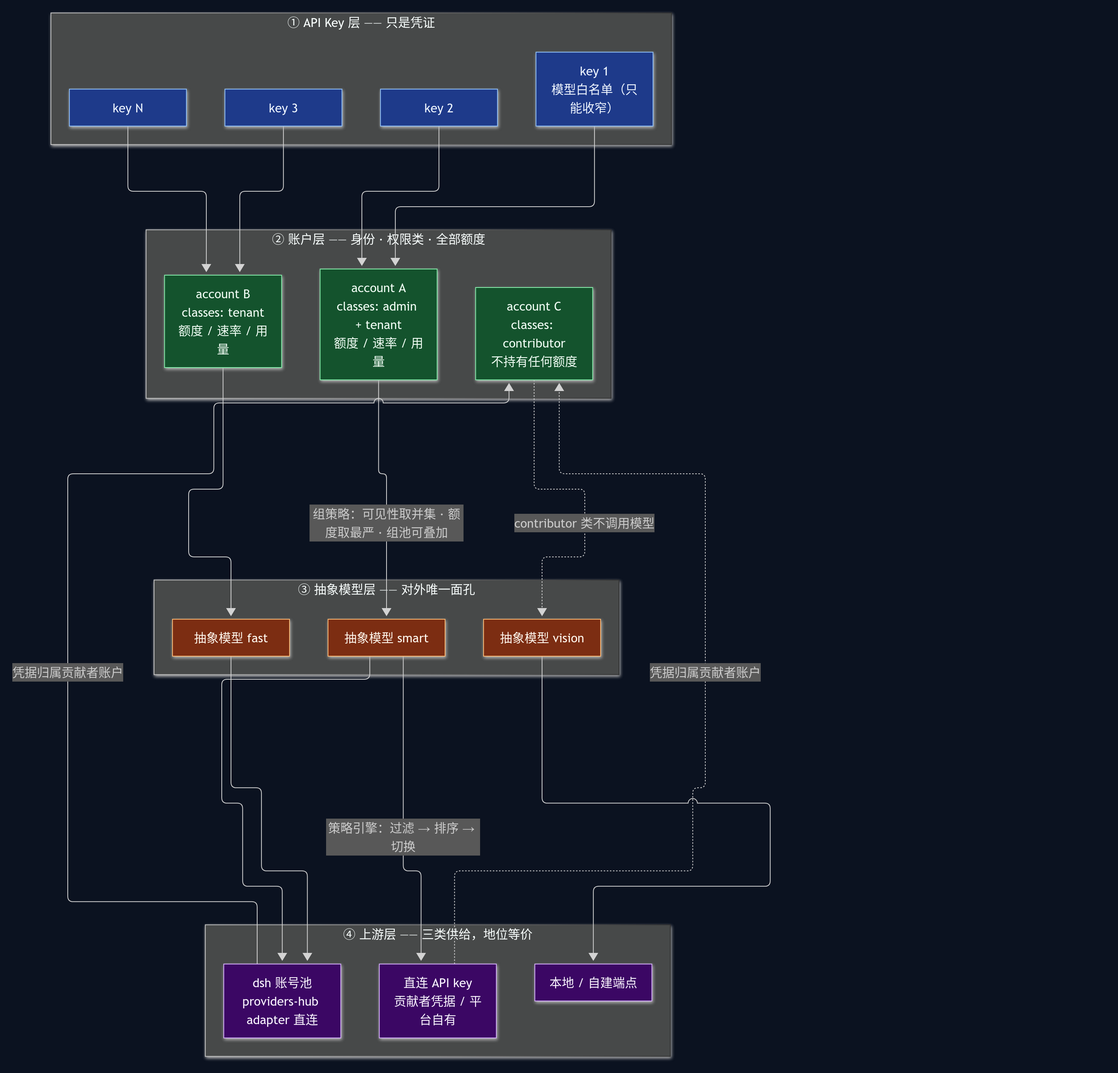
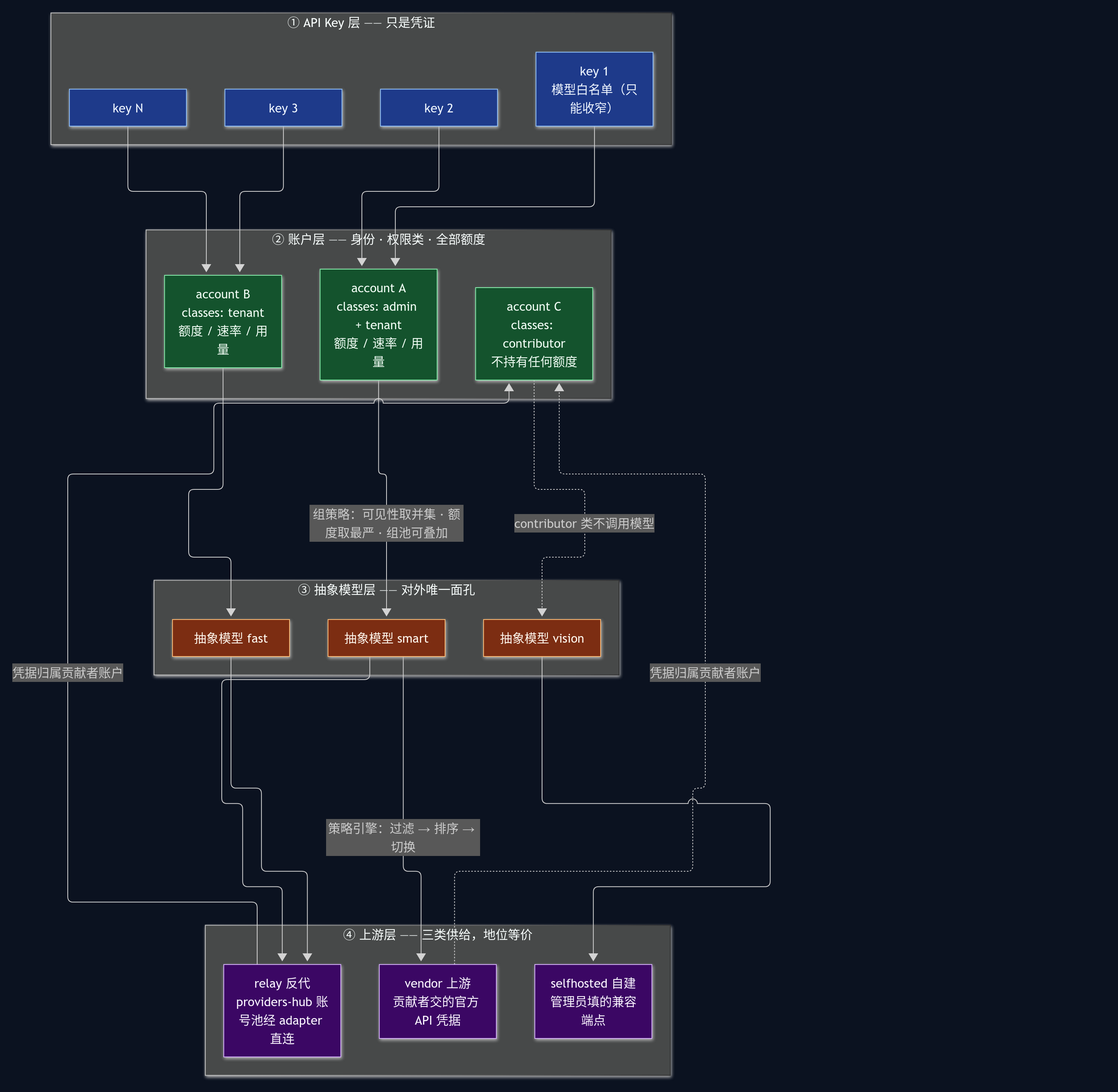
docs: 三类上游改名 relay/vendor/selfhosted（反代/上游/自建）+ 架构图重渲染
- dsh_provider → relay（反代）、contributed → vendor（上游）、compatible → selfhosted（自建）
- 依据：upstreams.kind='upstream' 自指像 bug；upstream 已是 L3 层名
- 同步 README 术语表 + 文档地图行数 + 三张架构图 PNG

diff --git a/docs/DECISIONS-REVIEW.md b/docs/DECISIONS-REVIEW.md
@@ -36,12 +36,12 @@
 | 1.3 | **两进程模型**：Go 主进程 + Node sidecar；不 import、不写 cordis 插件 | `01-overview.md:171-196` |
 | 1.4 | **IPC 用 stdio + NDJSON**（一行一帧），借用 JSON-RPC 2.0 字段名但不实现 batch/notification | `04-sidecar.md:37-53`（已全库统一，见第 8.1 条） |
 | 1.5 | sidecar **无状态、一问一答、不主动推送**，`id` 由主进程分配 | `04-sidecar.md:52-57` |
-| 1.6 | sidecar 三条红线（只读凭据 / 不碰 `state.json` / 推理上游永走回环），并做成真实错误码 `E_CREDENTIAL_READONLY`、`E_STATE_FORBIDDEN` 当守卫 | `04-sidecar.md:199-231` |
+| 1.6 | sidecar 三条红线（只读凭据 / 不碰 `state.json` / 推理不经本机 HTTP 网关），并做成真实错误码 `E_CREDENTIAL_READONLY`、`E_STATE_FORBIDDEN` 当守卫 | `04-sidecar.md:199-231` |
 | 1.7 | sidecar **不感知业务概念**（IPC 参数里不出现 `abstract_model`/`api_key`/`account_id`） | `04-sidecar.md:192-195` |
 | 1.8 | 控制面与数据面**同进程** | `01-overview.md:311` |
 | 1.9 | 中间件顺序**固定 11 步**：恢复/请求 ID → 安全头 → 可信代理由 → body 上限 → 鉴权 → 限速 → 配额 → 抽象模型解析 → 协议解析 → L2 → 响应编码 | `01-overview.md:80-104` |
 | 1.10 | 入站请求体上限 **32 MiB**（可配），超限 **413 且不读 body** | `01-overview.md:88`、`03-upstream.md:363-373` `[无理由]`（为何是 32） |
-| 1.11 | 上游 `dshgateway` body 上限 **300 MiB** → 413 `request_too_large` | `03-upstream.md:366` |
+| 1.11 | 上游请求体上限 **300 MiB** → 413 `request_too_large`（反代类尤其要注意：provider adapter 自己也限额） | `03-upstream.md:366` |
 | 1.12 | 限速三维令牌桶：**全局 / 按 Key / 按 IP** | `01-overview.md:90` `[无理由]` |
 | 1.13 | MVP 只做 `/v1/chat/completions` 与 `/v1/messages`；`/v1/responses` 与 Gemini 入站列 P1 | `01-overview.md:105-118` `[无理由]` |
 | 1.14 | IR 只有**三种 role**（system/user/assistant），不设 `RoleTool`；系统提示统一提升为一条 system 消息 | `02-ir.md:68-85` |
@@ -63,11 +63,11 @@
 | 1.30 | 重试退避表：连接重置 **50→150ms** ≤2 次、连接失败 **200→500ms** ≤2、TLS **200ms** ≤1、超时 ≤1、5xx **100→300ms** ≤2；**429/额度/鉴权/bad_request/protocol 一律 0 次重试** | `03-upstream.md:242-256` |
 | 1.31 | 重试总预算 **≤2 次/候选、≤4 次/请求** | `03-upstream.md:260` |
 | 1.32 | 健康状态机 4 态；`degraded` **降权不摘除**；冷却退避 **30s→1m→5m→15m**（上限 15m） | `03-upstream.md:286-322` |
-| 1.33 | 熔断粒度挂在 `upstreams.id`；`dshgateway` 用 `GET /v1/models` 探活、健康时 **30s** 一次 | `03-upstream.md:304-318` |
-| 1.34 | `/readyz` = dshgateway 成功 **且** 至少 1 个 contributed healthy | `03-upstream.md:324-332` |
+| 1.33 | 熔断粒度挂在 `upstreams.id`；反代类用 sidecar 的 `models.list` 探活、健康时 **30s** 一次 | `03-upstream.md:304-318` |
+| 1.34 | `/readyz` = sidecar 可用 **且** 至少 1 条反代/上游健康 | `03-upstream.md:324-332` |
 | 1.35 | 超时矩阵 8 项：入站读 body **30s** / TCP **5s**（公网贡献凭据放宽 10s）/ TLS **10s** / 首字节 **60s** / **流式事件间隔 120s** / 单请求总时长 **600s** / 空闲淘汰 **90s** / drain **30s** | `03-upstream.md:336-355` |
 | 1.36 | 契约测试 **K1–K7**（含复现 `http=000` 并验证重试）；K1 **不断言模型条目数** | `03-upstream.md:400-415` |
-| 1.37 | 启动顺序 7 步，**初始化向导先于开公网**；`dshgateway` 自举失败**不阻塞启动**、每 30s 重试 | `01-overview.md:197-213`、`04-sidecar.md:236-257` |
+| 1.37 | 启动顺序 7 步，**初始化向导先于开公网**；反代类自举失败**不阻塞启动**、指数退避到 30s 重试 | `01-overview.md:197-213`、`04-sidecar.md:236-257` |
 | 1.38 | sidecar 启动 `health` 超时 **10s**，失败挂横幅继续 | `04-sidecar.md:243-250` |
 | 1.39 | sidecar 重启退避 **1s→2s→5s→15s→30s→60s**；连续 **5 次**失败停止重启等人工；协议违规**连续 3 次**主动重启 | `04-sidecar.md:259-274` |
 | 1.40 | sidecar 单次 IPC 超时：`health`/`providers.list` **3s**、`credentials.resolve`/`describe` **5s**、`models.list`/`credits.query` **15s**、`login.*` **10s**、`login.cancel` **3s**；**超时不取消** sidecar 侧操作 | `04-sidecar.md:276-288` |
@@ -185,7 +185,7 @@
 | 3.8 | 三级鉴定流水线：L0 **几秒**（全部贡献无例外）→ L1 **约 1 分钟**（决定是否入池）→ L2 **分钟级**（抽检 + 可疑 + 定时复检） | `05-verification.md:71-85` |
 | 3.9 | 信号按伪造抵抗性三级：**强**（数值随机指纹、能力边界、logprobs、金丝雀）、**中**（知识边界、计费一致性）、**弱**（usage 差值、自报身份、回显 model、响应头、错误格式）；弱信号不能单独定案 | `05-verification.md:49-60` |
 | 3.10 | 请求级两道闸：Q1 个人额度 → **429 `quota_exceeded`**；Q2 组共享池 → **429 `pool_exhausted`**；在候选展开**之前**判一次 | `03-strategy.md:71-77` |
-| 3.11 | 候选声明字段：`channel_scope{mode, channels[]}`、`credential_scope{mode: any/platform_only/contributed_only}`、`require_modalities[]`、`min_context`、`require_efforts[]` | `02-abstract.md:82-97` `[无理由]` |
+| 3.11 | 候选声明字段：`channel_scope{mode, channels[]}`、`credential_scope{mode: any/platform_only/contributor_only}`、`require_modalities[]`、`min_context`、`require_efforts[]` | `02-abstract.md:82-97` `[无理由]` |
 | 3.12 | 候选保存校验 **6 条**（含 require_modalities 必须是子集、至少 1 个候选） | `02-abstract.md:125-130` |
 | 3.13 | `aggregate/*` **默认排除**：刷新时置 `excluded_from_candidates=true`；引用它保存**被拒**；仍可见（22 个） | `01-catalog.md:139-145` |
 | 3.14 | missing 判定：连续 **N 天**未出现（**建议 3–7 天**，未定值） | `01-catalog.md:152,158` |
@@ -279,7 +279,7 @@
 | 4.45 | `qualified_name` **不可写**；`aggregate/*` 默认排除落在数据层 | `02-admin.md:225-259` |
 | 4.46 | 抽象模型名创建后不可改；`capability_mode` 二值；干跑是保存路径的**强制步骤**且要求新鲜结果 | `02-admin.md:265-333` |
 | 4.47 | 弃用保存三条硬校验（环检测 / 深度 ≤5 / 能力逐项 ≥）；`migration_doc` 字段名与四项能力清单 | `02-admin.md:340-372` |
-| 4.48 | 上游/凭据端点：`ban` 与禁用上游**需二次确认但不逐次重验**；**无任何端点返回凭据明文**；`kind=dshgateway` 的 `base_url` 只能是 `127.0.0.1:8326`　**2026-10-20 修正**：原写「ban 每次重验」，与「恰好四项」冲突 | `02-admin.md:378-405` |
+| 4.48 | 上游/凭据端点：`ban` 与禁用上游**需二次确认但不逐次重验**；**无任何端点返回凭据明文**；`kind=relay`（反代）**根本没有 `base_url` 可填**——端点由 adapter 内部决定　**2026-10-20 修正**：原写「ban 每次重验」，与「恰好四项」冲突 | `02-admin.md:378-405` |
 | 4.49 | 审计查询参数固定 **7 个**，**无 DELETE** | `02-admin.md:435` |
 | 4.50 | 需**二次确认**的设置键 **4 个**（不含已撤销的 `admin_ip_allowlist`），设置项**不逐次重验**；额外提供 `POST /api/admin/settings/ip-check`；脱敏模式是**设置**而非会话级参数　**2026-10-20 修正**：原写「需逐次重验的设置键 5 个」——5 个里含已明确不提供的 `admin_ip_allowlist`，且设置项本就不属四项 | `02-admin.md:444-460` |
 

diff --git a/docs/architecture/04-sidecar.md b/docs/architecture/04-sidecar.md
@@ -139,7 +139,7 @@ credits.query({ provider: string, credentialRef: string }) -> {
 | `credentials.set` / `credentials.unset` | **红线①**（第 4 节）。一旦存在，某天就会有人用它"顺手把刷新后的 token 写回去"，而那次写入会与 DSH 自己的续期竞争 |
 | `credentials.refresh` | 续期必然要写回凭据存储，同红线①。**后果**：凭据的续期只能由 DSH 完成，我们只能读最新值。读到 `expiresAt` 已过 → 标 `status=expired` 并从候选中剔除，同时提示贡献者去 DSH 里重新登录 |
 | `state.read` / `state.write` | **红线②**（第 4 节）。`state.json` 是 DSH 的运行状态（账号列表、`disabledModels`、`aggregateOrder` 等），与它共享状态就是承认耦合 |
-| 任何"代我调用上游模型"的方法 | sidecar **不参与推理链路**。红线③要求推理上游永走 `127.0.0.1`，如果让 sidecar 代发模型请求，就等于把推理上游地址变成了"由 TS 代码决定"，那正是我们要避免的 |
+| 任何"打开一个 HTTP 端口让 Go 侧代理推理"的方法 | **不进过本机 HTTP 网关**（ALIGN-SPEC H / 红线③）。sidecar **确实参与推理链路**（它就在链路上：Go → IPC → adapter → 官方端点），但那条链路上没有 HTTP 监听端口——推理走进程内 `import()`，数据经 stdio 管道搬运。若提供一个 `:8326` 那样的收口层，就等于把推理又变成"一个可被别人直接敲的 OpenAI 端点"，且会抹掉 provider 账号归因（网关只认一个 Bearer） |
 
 **登录流拿到凭据之后怎么办**：`login.poll` 返回 `credentialRef` 与取值入口，**由贡献者在控制台
 确认后，凭据存进 FreeRouter 自己的 `upstream_secrets`**（AES-GCM），不回写 DSH。
@@ -240,21 +240,21 @@ credits.query({ provider: string, credentialRef: string }) -> {
 |---|---|---|
 | 1 | 加载配置，校验唯一出口（[03-upstream.md](03-upstream.md) 9.3） | **拒绝启动** |
 | 2 | 打开 SQLite，执行迁移 | 拒绝启动 |
-| 3 | 校验 `sidecar.hub_path`（vendored providers-hub）可读、Node 版本满足 | 挂横幅，继续（不阻塞） |
-| 4 | **拉起 sidecar 进程**，等待 `health` 应答（超时 **10s**） | 挂横幅，继续；contributed 全部视为不可用 |
+| 3 | 校验 `sidecar.hub_path`（随包副本 `hub_path`）可读、Node 版本满足 | 挂横幅，继续（不阻塞） |
+| 4 | **拉起 sidecar 进程**，等待 `health` 应答（超时 **10s**） | 挂横幅，继续；vendor 全部视为不可用 |
 | 5 | 异步拉 `GET /v1/models` 写 `real_models` | 每 30s 重试 |
 | 6 | 启动健康探测循环（[03-upstream.md](03-upstream.md) 第 7 节） | —— |
 | 7 | 开始监听，`/readyz` 开始返回 | —— |
 
-**为什么步骤 4 失败**不阻塞启动**：`dsh_provider` 是主供给（providers-hub 账号池 + 上百个模型的额度），
-它不依赖 sidecar。sidecar 只影响 `contributed` 上游与"贡献/登录"这条支线。为了一个支线
+**为什么步骤 4 失败**不阻塞启动**：`relay` 是主供给（providers-hub 账号池 + 上百个模型的额度），
+它不依赖 sidecar。sidecar 只影响 `vendor` 上游与"贡献/登录"这条支线。为了一个支线
 让整站起不来，是把 SLA 绑在了最不重要的一环上。
 
 **为什么 `health` 超时是 10s 而不是 60s**：Node 冷启动 + 加载 providers-hub 模块通常 < 3s。
 10s 已经足够区分"慢"与"卡住"，而更长的等待会让启动看起来很卡（用户会以为进程挂了）。
 
 **为什么不把 sidecar 的 `health` 接进 `/readyz`**：见 [03-upstream.md](03-upstream.md) 7.3——
-`/readyz` 的语义是"能不能服务某个请求"，`dsh_provider` 可用就够了。sidecar 的健康状况通过
+`/readyz` 的语义是"能不能服务某个请求"，`relay` 可用就够了。sidecar 的健康状况通过
 `/healthz` 的明细与横幅暴露。
 
 ### 5.2 运行期
@@ -262,8 +262,8 @@ credits.query({ provider: string, credentialRef: string }) -> {
 | 事件 | 处理 |
 |---|---|
 | sidecar 退出（任意信号） | 主进程按退避重启：1s → 2s → 5s → 15s → 30s → 60s（上限） |
-| 连续 **5 次**启动失败 | 进入 `sidecar_degraded`：停止重启，横幅提示，contributed 全部冷却；**等管理员干预** |
-| 主进程有在途 IPC 调用时 sidecar 死 | 所有在途调用立即以 `E_UPSTREAM_…`（或 `E_PROTOCOL`）失败。若该请求尚未产出可见内容，按 [06-runtime.md](06-runtime.md) 的切换状态机换候选（通常是换到 `dsh_provider` 或 `compatible` 的候选） |
+| 连续 **5 次**启动失败 | 进入 `sidecar_degraded`：停止重启，横幅提示，vendor 全部冷却；**等管理员干预** |
+| 主进程有在途 IPC 调用时 sidecar 死 | 所有在途调用立即以 `E_UPSTREAM_…`（或 `E_PROTOCOL`）失败。若该请求尚未产出可见内容，按 [06-runtime.md](06-runtime.md) 的切换状态机换候选（通常是换到 `relay` 或 `selfhosted` 的候选） |
 | 单次调用超时 | 见 5.3；超时不代表 sidecar 死了，只记 `warn` |
 | 协议违规（`E_PROTOCOL`） | 记错误计数；**连续 3 次**视为 sidecar 失能，主动重启它 |
 

diff --git a/docs/architecture/01-overview.md b/docs/architecture/01-overview.md
@@ -49,9 +49,9 @@ IR、上游、sidecar、存储、运行时的细节分别在 [02-ir.md](02-ir.md
                      │
                      ▼
         L3 上游
-        ├── dsh_provider → sidecar 直连 providers-hub adapter（官方额度池）
-        ├── contributed  → 贡献者凭据直连官方端点
-        └── compatible   → 标准 OpenAI / Anthropic 兼容端点（API Key）
+        ├── relay → sidecar 直连 providers-hub adapter（官方额度池）
+        ├── vendor  → 贡献者凭据直连官方端点
+        └── selfhosted   → 标准 OpenAI / Anthropic 兼容端点（API Key）
 ```
 
 | 层 | 职责 | **明确不做** |
@@ -158,14 +158,14 @@ IR、上游、sidecar、存储、运行时的细节分别在 [02-ir.md](02-ir.md
 
 | kind | 目标 | 凭据来源 | 协议 |
 |---|---|---|---|
-| `dsh_provider` | **不经 HTTP 网关**——sidecar 进程内 `import()` providers-hub 的 provider adapter，直连官方端点 | 各 provider 的 OAuth 凭据（vendored `hub_path`） | adapter 原生（由 IR 映射） |
-| `contributed` | 贡献凭据自带的第三方端点 | `upstream_secrets`（AES-GCM）+ `upstream_credentials` | 视凭据而定，默认 OpenAI 兼容 |
-| `compatible` | 用户自建的 OpenAI / Anthropic 兼容端点 | `upstream_secrets`（API Key，`owner_account_id = NULL` 为平台自有） | OpenAI Chat / Anthropic Messages |
+| `relay` | **不经 HTTP 网关**——sidecar 进程内 `import()` providers-hub 的 provider adapter，直连官方端点 | 各 provider 的 OAuth 凭据（`hub_path` 处的一份随包副本） | adapter 原生（由 IR 映射） |
+| `vendor` | 贡献凭据自带的第三方端点 | `upstream_secrets`（AES-GCM）+ `upstream_credentials` | 视凭据而定，默认 OpenAI 兼容 |
+| `selfhosted` | 用户自建的 OpenAI / Anthropic 兼容端点 | `upstream_secrets`（API Key，`owner_account_id = NULL` 为平台自有） | OpenAI Chat / Anthropic Messages |
 
 细节见 [03-upstream.md](03-upstream.md)。这里只强调一条：
 
 > **凭据只出站不出户**：三种 kind 的凭据都只在服务端使用，永不下发给客户端；
-> `dsh_provider` 的凭据不经过任何 HTTP 中间层（没有本机网关这一跳），
+> `relay` 的凭据不经过任何 HTTP 中间层（没有本机网关这一跳），
 > 中间层越少，一份泄露的凭据能暴露的面越小。
 
 ---
@@ -318,7 +318,7 @@ $FR_DATA_DIR/
 | D7 | 不静默降级 | 悄悄丢图片 / 丢 `tool_use` 会让客户端以为成功，错误在用户侧才暴露（PLAN 6.1） | 保守声明会让部分组合直接 400 → 用 `capability_mode` 让管理员显式放宽 |
 | D8 | 已吐可见内容后不切候选 | 流式串话是 providers-hub 已经踩过的坑（PLAN 3.3） | 部分可恢复故障变成失败 → 用健康探测把坏候选提前摘掉 |
 | D9 | 策略引擎三段式且默认 `expiry-first` | 最快作废的额度优先用，直接复用 providers-hub 的到期语义 | 可能选到较慢的候选 → 排序链可组合（`fastest` 等） |
-| D10 | 上游永走 `127.0.0.1` | providers-hub 硬约束，且把我们与上游的信任边界收在本机 | 不能跨机部署上游 → 与 P2 多节点方案一起再议 |
+| D10 | 推理不经任何本机 HTTP 网关（无 `:8326` 那一跳） | 网关只认一个 Bearer，会抹掉 provider 账号归因与原始错误语义；且它自身是个可被本机任意进程直接敲的 OpenAI 端点 | 上游只能跑在本机的 sidecar 里 → 与 P2 多节点方案一起再议 |
 | D11 | 错误码区分"模型不存在"(404) / "无候选"(503) / "已禁用"(410) | 三种情况的运维处置完全不同；混成一个 500 会让排障方向错误 | 客户端需要理解三态 → 文档与 SDK 说明 |
 | D12 | 控制面与数据面同进程 | C1 砍掉队列；单机形态下没有理由拆服务 | 管理操作可能影响转发 → 管理面重查询加超时与限流 |
 
@@ -352,7 +352,7 @@ $FR_DATA_DIR/
 > 同时限速与配额要从进程内状态迁到共享设施。多节点下的 sidecar 是"每节点一个"还是
 > "独立服务"需要届时决定——现在不做，但本册的分层不应妨碍这两种走法。
 
-> **待定**：`contributed` 上游是否允许非 OpenAI 兼容协议（例如直接对接某家 Anthropic 兼容端点）。
+> **待定**：`vendor` 上游是否允许非 OpenAI 兼容协议（例如直接对接某家 Anthropic 兼容端点）。
 > 若允许，L3 需要第二套编码器，IR 的出站映射也要按上游协议而非入站协议选择。
 
 > **待定**：管理面与数据面是否需要在同一进程内做资源隔离（例如管理查询的并发上限、

diff --git a/docs/OPEN-QUESTIONS.md b/docs/OPEN-QUESTIONS.md
@@ -290,7 +290,7 @@
 - **Q171** `/v1/responses` 与 Gemini 入站是否提供与 OpenAI 完全一致的错误响应形状， 还是各自按自家规范返回。两条都要在 [02-ir.md](architecture/02-ir.md) 与 `../api/03-errors.md` 中对齐。
 - ~~**Q172** 前端形态（Next.js + `embed.FS` 还是 Go 模板 + htmx）会影响 L1 是否要挂静态资源中间件~~ **已定案（2026-10-19）**：Vite + React，产物 `web/dist` 由同目录 `embed.go` 的 `go:embed` 嵌入，L1 **要**挂静态资源中间件（SPA fallback + 不可变缓存头）；构建期需要 Node，运行期不需要。
 - **Q173** P2 多节点时，SQLite → Postgres 会改变事务边界（[05-storage.md](architecture/05-storage.md)）； 同时限速与配额要从进程内状态迁到共享设施。多节点下的 sidecar 是"每节点一个"还是 "独立服务"需要届时决定——现在不做，但本册的分层不应妨碍这两种走法。
-- **Q174** `contributed` 上游是否允许非 OpenAI 兼容协议（例如直接对接某家 Anthropic 兼容端点）。 若允许，L3 需要第二套编码器，IR 的出站映射也要按上游协议而非入站协议选择。
+- **Q174** `vendor` 上游是否允许非 OpenAI 兼容协议（例如直接对接某家 Anthropic 兼容端点）。 若允许，L3 需要第二套编码器，IR 的出站映射也要按上游协议而非入站协议选择。
 - **Q175** 管理面与数据面是否需要在同一进程内做资源隔离（例如管理查询的并发上限、 独立 goroutine 池）。当前假设管理面流量远小于转发流量，先不隔离。
 
 ### architecture/02-ir.md
@@ -305,11 +305,11 @@
 
 ### architecture/03-upstream.md
 
-- **Q183** `contributed` 上游是否允许非 OpenAI 兼容协议（原生 Anthropic / Gemini 端点）。 若允许，[02-ir.md](architecture/02-ir.md) 的出站映射要按上游协议选择，`Dialect` 需要扩充， 且契约测试要覆盖新方言。当前按"只支持 OpenAI 兼容"实现。
+- **Q183** `vendor` 上游是否允许非 OpenAI 兼容协议（原生 Anthropic / Gemini 端点）。 若允许，[02-ir.md](architecture/02-ir.md) 的出站映射要按上游协议选择，`Dialect` 需要扩充， 且契约测试要覆盖新方言。当前按"只支持 OpenAI 兼容"实现。
 - **Q184** 是否需要给单个凭据设连接数上限（防止一个贡献凭据被大量并发打爆）。 当前用 `MaxConnsPerHost` 在 host 级别兜底，逐凭据上限留到有真实滥用数据后再加。
 - **Q185** 是否给单个**凭据**（而非 host）设置连接数上限。当前只有 host 级 `MaxConnsPerHost`，无法阻止一个贡献凭据被大量并发请求打爆（对贡献者是实际损失）。
-- **Q186** `contributed` 上游的模型目录以"贡献者声明"为准还是以 `/v1/models` 为准。 前者可能造假（正是**鉴定**要防的），后者可能不被支持。当前倾向"声明为主 + L0 形式校验"， 但需要与 [../contributions/02-credentials.md](contributions/02-credentials.md) 对齐。
-- **Q187** 上游是否需要一个显式的"出口代理"配置（`HTTP_PROXY`）。当前假设 `dsh_provider` 经本机 sidecar 出网不需要代理、`contributed` 直连。若部署环境强制出网代理，需要在 Transport 层统一注入。
+- **Q186** `vendor` 上游的模型目录以"贡献者声明"为准还是以 `/v1/models` 为准。 前者可能造假（正是**鉴定**要防的），后者可能不被支持。当前倾向"声明为主 + L0 形式校验"， 但需要与 [../contributions/02-credentials.md](contributions/02-credentials.md) 对齐。
+- **Q187** 上游是否需要一个显式的"出口代理"配置（`HTTP_PROXY`）。当前假设 `relay` 经本机 sidecar 出网不需要代理、`vendor` 直连。若部署环境强制出网代理，需要在 Transport 层统一注入。
 - **Q188** 多节点（P2）下每个节点各自起一个 sidecar 子进程是可接受的（同机多进程，各持一份 provider 凭据副本），还是需要独立的 sidecar 服务。当前按"每节点各自连"设计。
 
 ### architecture/04-sidecar.md

diff --git a/docs/ui/03-admin.md b/docs/ui/03-admin.md
@@ -344,7 +344,7 @@
 | 字段 | 说明 |
 |---|---|
 | 真实模型 | 从真实模型目录选择（`aggregate/*` 默认不可选） |
-| 渠道范围 | 限定可用渠道（如仅 `contributed` 或全部） |
+| 渠道范围 | 限定可用渠道（如仅 `vendor` 或全部） |
 | 约束 | 该候选的附加条件（如必须支持某能力） |
 | 权重 | 仅在该抽象模型的排序链里显式含 `round-robin` 平局决胜时生效；默认链不使用 |
 | 可用性预览 | 声明式候选 → 当前可用的凭据实例数量 |
@@ -394,24 +394,24 @@
 
 ### 8.1 上游 `/admin/upstreams`
 
-**用途**：管理渠道。`kind` 有三种：`dsh_provider`（providers-hub 账号池直连）/ `contributed`（贡献者凭据直连官方）/ `compatible`（本地或自建的 OpenAI 兼容端点）。
+**用途**：管理渠道。`kind` 有三种：`relay`（providers-hub 账号池直连）/ `vendor`（贡献者凭据直连官方）/ `selfhosted`（本地或自建的 OpenAI 兼容端点）。
 
 **关键字段**：
 
 | 字段 | 说明 |
 |---|---|
-| 类型 | `dsh_provider`（复用 providers-hub 池）/ `contributed`（贡献者凭据）/ `compatible`（自建兼容端点） |
+| 类型 | `relay`（复用 providers-hub 池）/ `vendor`（贡献者凭据）/ `selfhosted`（自建兼容端点） |
 | 名称 | 可读名 |
-| base_url | 上游地址。`dsh_provider` **不填地址**（由 sidecar 直接调用 providers-hub 的 provider adapter，不经过任何 HTTP 网关）；`contributed` 填官方地址；`compatible` 填自建端点地址 |
+| base_url | 上游地址。`relay` **不填地址**（由 sidecar 直接调用 providers-hub 的 provider adapter，不经过任何 HTTP 网关）；`vendor` 填官方地址；`selfhosted` 填自建端点地址 |
 | 归属 | `owner_account_id = NULL` 表示平台自有（总纲 4.2） |
 | 启用 | 开关 |
 | 最后连通时间 | 健康信号 |
 
 **主要操作**：新建、编辑、启用 / 禁用、测试连通性。
 
-**为什么 `dsh_provider` 类型没有 base_url 输入框**（2026-10-20 改定）：这一类的调用路径是 **Node sidecar 直接调用 providers-hub 的 provider adapter**（`lib/*-adapter.js`），全程不经过 HTTP 网关。给它一个地址字段等于留了一个必然失败、且会破坏归因的配置项——填什么都没用，因为没有任何代码会去连它。旧设计里这一类的调用要绕一次本机 OpenAI 网关（地址被锁定为回环端口），改名与去地址是同一次变更的两面：既然要直连 adapter，网关与端口就都不存在了。
+**为什么 `relay` 类型没有 base_url 输入框**（2026-10-20 改定）：这一类的调用路径是 **Node sidecar 直接调用 providers-hub 的 provider adapter**（`lib/*-adapter.js`），全程不经过 HTTP 网关。给它一个地址字段等于留了一个必然失败、且会破坏归因的配置项——填什么都没用，因为没有任何代码会去连它。旧设计里这一类的调用要绕一次本机 OpenAI 网关（地址被锁定为回环端口），改名与去地址是同一次变更的两面：既然要直连 adapter，网关与端口就都不存在了。
 
-**为什么还要保留 `compatible` 这个第三类**：它服务的是"自建 / 本地 OpenAI 兼容端点"这种真实需求（总纲第 10 章）。把它塞进 `contributed` 会让"贡献者凭据"这个词失真，塞进 `dsh_provider` 则要求它也走 provider adapter——两者都不成立。
+**为什么还要保留 `selfhosted` 这个第三类**：它服务的是"自建 / 本地 OpenAI 兼容端点"这种真实需求（总纲第 10 章）。把它塞进 `vendor` 会让"贡献者凭据"这个词失真，塞进 `relay` 则要求它也走 provider adapter——两者都不成立。
 
 **危险操作与二次确认**：禁用上游需要 🔒 二次确认，且必须显示"当前有多少候选依赖该上游"。
 

diff --git a/docs/api/02-admin.md b/docs/api/02-admin.md
@@ -392,7 +392,7 @@ GET /api/admin/abstract-models/am_fast/chain
 | `GET` | `/api/admin/upstreams` | 列表 | ➖ |
 | `POST` | `/api/admin/upstreams` | 新建 | ➖ |
 | `PATCH` | `/api/admin/upstreams/{id}` | 改名称、base_url、启用 | ➖（禁用时 🔒 二次确认） |
-| `POST` | `/api/admin/upstreams/{id}/kind` | 变更 `kind`（`dsh_provider` / `contributed` / `compatible`） | 🔒（改上游形态） |
+| `POST` | `/api/admin/upstreams/{id}/kind` | 变更 `kind`（`relay` / `vendor` / `selfhosted`） | 🔒（改上游形态） |
 | `POST` | `/api/admin/upstreams/{id}/test` | 连通性测试 | ➖ |
 | `GET` | `/api/admin/credentials` | 列表（筛选 `owner` / `provider` / `verify_status` / `status`） | ➖ |
 | `GET` | `/api/admin/credentials/{id}` | 详情（**无明文**） | ➖ |
@@ -402,15 +402,15 @@ GET /api/admin/abstract-models/am_fast/chain
 
 **没有任何端点返回凭据明文**。总纲 9.4 定"凭据明文永不回显"。 管理端详情返回的是 `provider` / `external_label` / `verify_detail` 等元数据。
 
-**为什么 `dsh_provider` 类型不接受 `base_url`**（2026-10-20 改定）：这一类的调用路径是 **Node sidecar 直接调用 providers-hub 的 provider adapter**（`lib/*-adapter.js`），全程不经过 HTTP 网关。构造 `kind=dsh_provider` 时如果传了地址，端点在保存前就拒绝——不是"忽略它"，而是明确报错。**为什么报错而不是忽略**：忽略会让管理员以为自己配的地址生效了，等排查时才发现根本没被使用；报错把这件事在保存那一刻讲清楚。
+**为什么 `relay` 类型不接受 `base_url`**（2026-10-20 改定）：这一类的调用路径是 **Node sidecar 直接调用 providers-hub 的 provider adapter**（`lib/*-adapter.js`），全程不经过 HTTP 网关。构造 `kind=relay` 时如果传了地址，端点在保存前就拒绝——不是"忽略它"，而是明确报错。**为什么报错而不是忽略**：忽略会让管理员以为自己配的地址生效了，等排查时才发现根本没被使用；报错把这件事在保存那一刻讲清楚。
 
 **三类 `kind` 的字段要求**：
 
 | `kind` | `base_url` | 调用路径 |
 |---|---|---|
-| `dsh_provider` | **禁止提供** | Node sidecar → providers-hub provider adapter |
-| `contributed` | 必填（该供应商官方地址） | Go 直连上游官方端点，凭据来自贡献 |
-| `compatible` | 必填（自建 / 本地兼容端点） | Go 直连该端点 |
+| `relay` | **禁止提供** | Node sidecar → providers-hub provider adapter |
+| `vendor` | 必填（该供应商官方地址） | Go 直连上游官方端点，凭据来自贡献 |
+| `selfhosted` | 必填（自建 / 本地兼容端点） | Go 直连该端点 |
 
 **为什么 `kind` 的变更要单独一个端点并标危险**：它改变的是这条上游**怎么被调用**，不是它的名字或开关。就地 `PATCH` 会让"我改了 base_url"和"我改了调用方式"看起来是同一类操作，而后者会让所有依赖该上游的候选在下一次请求时走一条完全不同的代码路径。
 

diff --git a/docs/models/01-catalog.md b/docs/models/01-catalog.md
@@ -34,7 +34,7 @@ dsh:<渠道>/<上游模型 id>
 
 **为什么加 `dsh:` 前缀**（上游 id 本来就已经是 `渠道/模型` 形态，看着像多此一举）：
 
-1. **留命名空间**。上游目前有三种来源（总纲 10 的 `upstreams.kind`）：`dsh_provider`（providers-hub 账号池直连）、`contributed`（贡献者凭据直连官方）、`compatible`（本地或自建 OpenAI 兼容端点）。其中只有 `dsh_provider` 的模型 id 天然带 `渠道/模型` 形态，另两种没有——但它们都叫“上游”，迟早会撞名字。前缀现在就钉死，将来加新来源不必迁移历史数据。
+1. **留命名空间**。上游目前有三种来源（总纲 10 的 `upstreams.kind`）：`relay`（providers-hub 账号池直连）、`vendor`（贡献者凭据直连官方）、`selfhosted`（本地或自建 OpenAI 兼容端点）。其中只有 `relay` 的模型 id 天然带 `渠道/模型` 形态，另两种没有——但它们都叫“上游”，迟早会撞名字。前缀现在就钉死，将来加新来源不必迁移历史数据。
 2. **防混用**。限定名带 `:`，抽象模型名禁止带 `:`（见 [02-abstract.md](02-abstract.md) 命名规则），于是"客户端拿到了一个真实模型名"这件事在字符串层面就能一眼识别，不必查库。
 3. **归因可读**。`requests` 表里落的是解析后的真实模型，管理员看日志时渠道与模型在同一串字符里，不用二次 join。
 
@@ -45,7 +45,7 @@ dsh:<渠道>/<上游模型 id>
 ```
 real_models {
   id,                    -- 内部主键
-  upstream_id,           -- 来源（dsh_provider / contributed / compatible），见总纲 10 upstreams
+  upstream_id,           -- 来源（relay / vendor / selfhosted），见总纲 10 upstreams
   upstream_model_id,     -- 上游原样 id，如 "deepseek-official/deepseek-flash"
   display_name,          -- 管理端显示名，默认取上游 name 字段
   group_name,            -- 目录分组（不是权限组，见第 4 节）

diff --git a/docs/README.md b/docs/README.md
@@ -18,7 +18,7 @@
 | | [architecture/00-diagrams.md](architecture/00-diagrams.md) | 两张总图：模型调用层级图、权限架构图（mermaid） | ✅ 200 行 |
 | | [architecture/01-overview.md](architecture/01-overview.md) | 分层、进程模型、部署形态 | ✅ 359 行 |
 | | [architecture/02-ir.md](architecture/02-ir.md) | IR 与四协议转换 | ✅ 554 行 |
-| | [architecture/03-upstream.md](architecture/03-upstream.md) | 上游适配：dsh_provider / contributed / compatible | ✅ 544 行 |
+| | [architecture/03-upstream.md](architecture/03-upstream.md) | 上游适配：relay / vendor / selfhosted | ✅ 558 行 |
 | | [architecture/04-sidecar.md](architecture/04-sidecar.md) | Node sidecar 的 IPC 契约 | ✅ 395 行 |
 | | [architecture/05-storage.md](architecture/05-storage.md) | 数据模型、迁移、索引 | ✅ 809 行 |
 | | [architecture/06-runtime.md](architecture/06-runtime.md) | 并发、连接池、流式、超时、错误处理 | ✅ 405 行 |
@@ -93,6 +93,17 @@
 | `suspect` | 有指纹但不达标 | ❌ 拒绝并给证据 |
 | `unverified` | **库中无参考指纹**（冷门模型） | ✅ 放行，标「未鉴定」，进复检队列 |
 | `trusted` | 官方域名 | ✅ 免检 |
+
+**三类上游**（用户用中文命名，代码用英文标识符）：
+
+| 中文名 | 标识符 | 含义 |
+|---|---|---|
+| **反代** | `relay` | 把 providers-hub 的账号池反代出去；凭据在它那里，推理走 sidecar 进程内的 provider adapter |
+| **上游** | `vendor` | 贡献者交的、直接连厂商官方端点的 API 凭据 |
+| **自建** | `selfhosted` | 管理员自己填的 OpenAI / Anthropic 兼容地址 |
+
+> 不用中文直译当标识符：`upstreams.kind='upstream'` 这种自指像 bug，且 `upstream` 已是 L3 层名
+> （`upstream_credentials` / `upstream_secrets`）。详见 [architecture/03-upstream.md](architecture/03-upstream.md) 第 1 节。
 
 ---
 

diff --git a/docs/architecture/05-storage.md b/docs/architecture/05-storage.md
@@ -269,7 +269,7 @@ CREATE INDEX ix_real_models_status ON real_models(status);
 ```sql
 CREATE TABLE upstreams (
     id               INTEGER PRIMARY KEY,
-    kind             TEXT    NOT NULL CHECK (kind IN ('dsh_provider','contributed','compatible')),
+    kind             TEXT    NOT NULL CHECK (kind IN ('relay','vendor','selfhosted')),
     name             TEXT    NOT NULL,
     base_url         TEXT    NOT NULL,
     secret_id        INTEGER REFERENCES upstream_secrets(id),
@@ -741,7 +741,7 @@ UPDATE group_quota_pools
 |---|---|---|
 | DB 快照 | 备份目录 | —— |
 | 主密钥 | 独立的密钥保管（不与备份同处） | 上游凭据全部作废，必须让贡献者重新提交 |
-| `sidecar.hub_path`（vendored providers-hub） | 部署包内 / npm 缓存 | `dsh_provider` 全部不可用，只能靠 `contributed` 与 `compatible` |
+| `sidecar.hub_path`（随包副本 `hub_path`） | 部署包内 / npm 缓存 | `relay` 全部不可用，只能靠 `vendor` 与 `selfhosted` |
 
 **为什么值得接受"恢复更麻烦"**：反过来（主密钥随备份）意味着**任何拿到备份的人拿到全部
 凭据**，而备份会被复制到更多地方（异地、对象存储、开发机）。把两样东西分开放，
